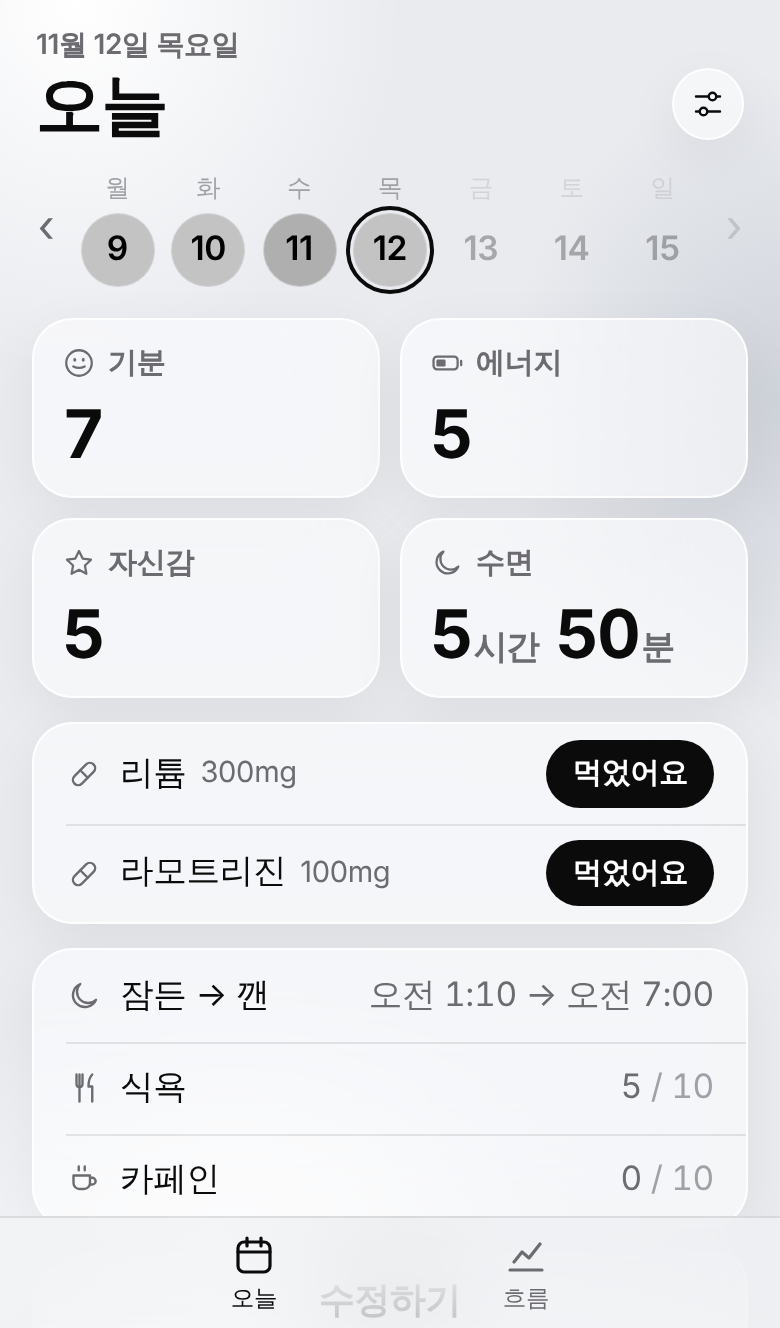
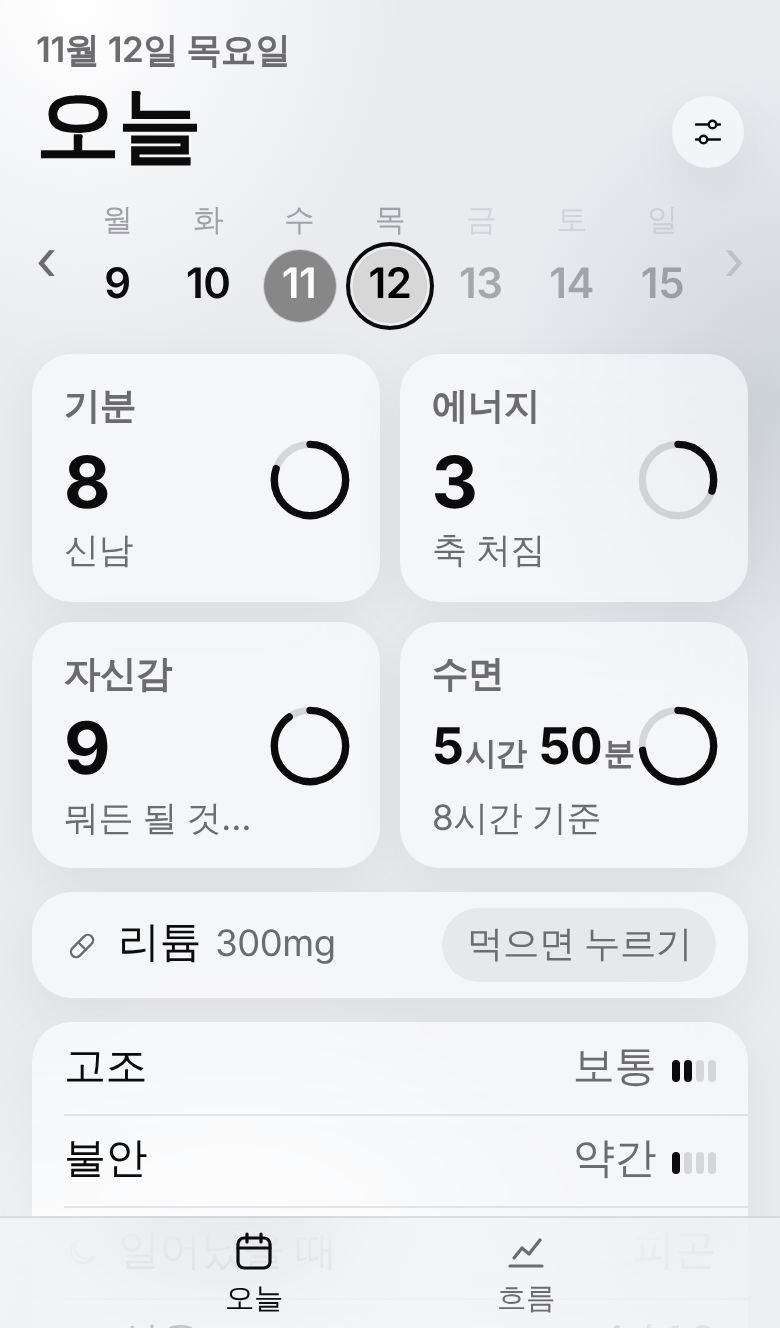
Tide: borderless cards, progress rings on today tiles
Claude-Session: https://claude.ai/code/session_01Du4KAy7crrN67i73oW7iBF

diff --git a/mood/app.css b/mood/app.css
@@ -82,7 +82,7 @@ button { border: 0; background: none; padding: 0; cursor: pointer; touch-action:
 .top h1 { font-size: calc(30px * var(--fs, 1.12)); line-height: 1.12; margin: 0; font-weight: 700; letter-spacing: -0.025em; }
 .icon-btn { width: 36px; height: 36px; border-radius: 50%; display: grid; place-items: center; color: var(--text); margin-bottom: 2px; }
 
-.card, .tile, .pickbar, .icon-btn, .segc, .btn.gray { background: var(--card); border: 0.5px solid var(--stroke); box-shadow: var(--shadow); -webkit-backdrop-filter: var(--blur); backdrop-filter: var(--blur); }
+.card, .tile, .pickbar, .icon-btn, .segc, .btn.gray { background: var(--card); box-shadow: var(--shadow); -webkit-backdrop-filter: var(--blur); backdrop-filter: var(--blur); }
 .card { border-radius: var(--radius); padding: 14px 16px; margin-bottom: 12px; }
 .hint { color: var(--muted); font-size: calc(13px * var(--fs, 1.12)); display: flex; gap: 10px; align-items: flex-start; }
 .hint b { color: var(--text); font-weight: 600; }
@@ -136,7 +136,7 @@ input[type=text] { width: 100%; min-height: 30px; padding: 0; }
 
 /* 약 */
 .med .chk { color: var(--ink); font-size: calc(16px * var(--fs, 1.12)); font-weight: 600; opacity: 0; }
-#app .med .chk { opacity: 1; font-size: calc(13px * var(--fs, 1.12)); font-weight: 500; color: var(--muted); border: 0.5px solid var(--stroke); border-radius: 999px; padding: 6px 12px; }
+#app .med .chk { opacity: 1; font-size: calc(13px * var(--fs, 1.12)); font-weight: 500; color: var(--muted); background: var(--card2); border-radius: 999px; padding: 6px 12px; }
 #app .med[aria-pressed=true] .chk { background: var(--ink); color: var(--ink-inv); border-color: transparent; font-weight: 600; }
 .med[aria-pressed=true] .chk { opacity: 1; }
 .li.add { justify-content: flex-start; font-weight: 500; }
@@ -174,11 +174,13 @@ input[type=text] { width: 100%; min-height: 30px; padding: 0; }
 
 /* 오늘 요약 */
 .tiles { display: grid; grid-template-columns: 1fr 1fr; gap: 10px; margin-bottom: 12px; }
-.tile { border-radius: var(--radius); padding: 12px 14px 10px; min-width: 0; }
-.tile .tl { display: flex; align-items: center; gap: 6px; color: var(--muted); font-size: calc(13px * var(--fs, 1.12)); font-weight: 600; }
-.tile .tl .ic { width: 17px; height: 17px; }
-.tile .n { font-family: var(--round); font-size: calc(30px * min(var(--fs, 1.12), 1.2)); white-space: nowrap; font-weight: 700; line-height: 1.2; letter-spacing: -0.02em; margin-top: 6px; font-variant-numeric: tabular-nums; }
-.tile .n small { font-size: calc(15px * var(--fs, 1.12)); font-weight: 600; color: var(--muted); margin-left: 1px; }
+.tile { border-radius: var(--radius); padding: 14px 14px 13px 16px; min-width: 0; display: flex; align-items: center; justify-content: space-between; gap: 8px; }
+.tb { min-width: 0; }
+.tile .tl { color: var(--muted); font-size: calc(13px * var(--fs, 1.12)); font-weight: 600; }
+.tile .n { font-family: var(--round); font-size: calc(30px * min(var(--fs, 1.12), 1.2)); font-weight: 700; line-height: 1.2; letter-spacing: -0.02em; margin-top: 4px; font-variant-numeric: tabular-nums; white-space: nowrap; }
+.tile .n.sm { font-size: calc(21px * min(var(--fs, 1.12), 1.2)); line-height: 1.72; }
+.tile .n small { font-size: .62em; font-weight: 600; color: var(--muted); margin-left: 1px; }
+.ring { width: 42px; height: 42px; flex: none; }
 .empty { text-align: center; color: var(--muted); padding: 26px 16px 16px; font-size: calc(14px * var(--fs, 1.12)); }
 .empty .e1 { font-size: calc(17px * var(--fs, 1.12)); font-weight: 600; color: var(--text); margin-bottom: 3px; }
 .empty .btn { margin-top: 18px; }

diff --git a/mood/sw.js b/mood/sw.js
@@ -1,6 +1,6 @@
 // 오프라인에서도 열리도록 앱 파일을 저장해 둔다.
 // 인터넷이 될 때는 항상 최신 파일을 먼저 받아오고, 안 될 때만 저장본을 쓴다.
-const CACHE = 'tide-v10';
+const CACHE = 'tide-v11';
 const FILES = ['./', 'index.html', 'app.css', 'app.js', 'manifest.webmanifest',
   'icons/icon-180.png', 'icons/icon-192.png', 'icons/icon-512.png'];
 
